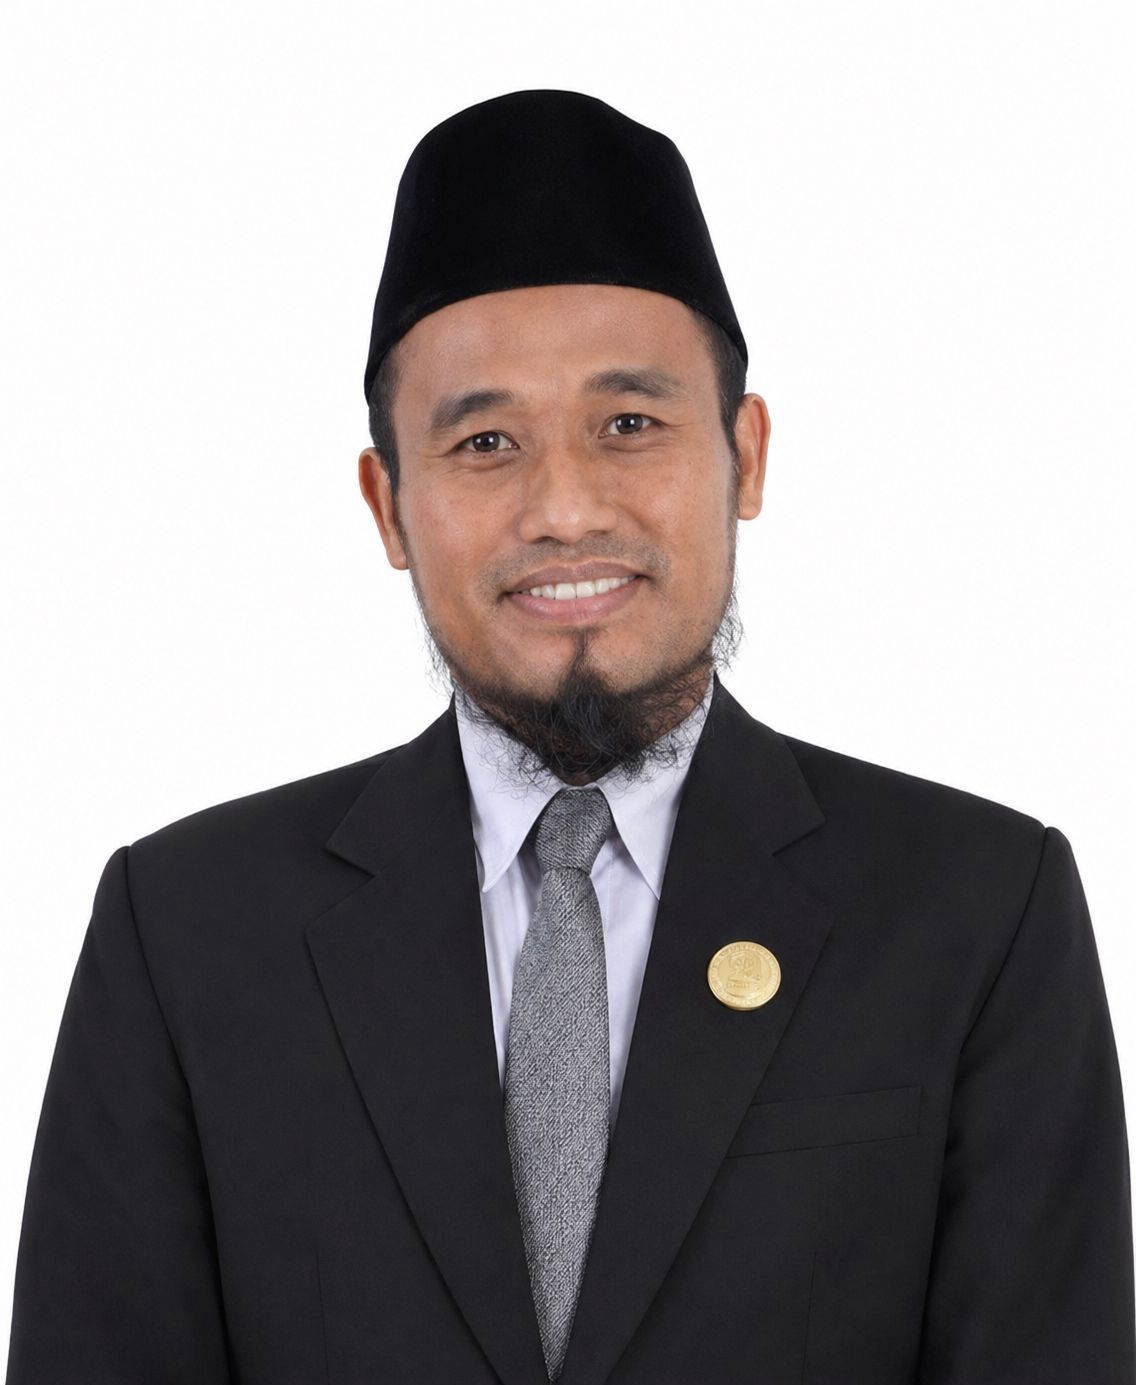
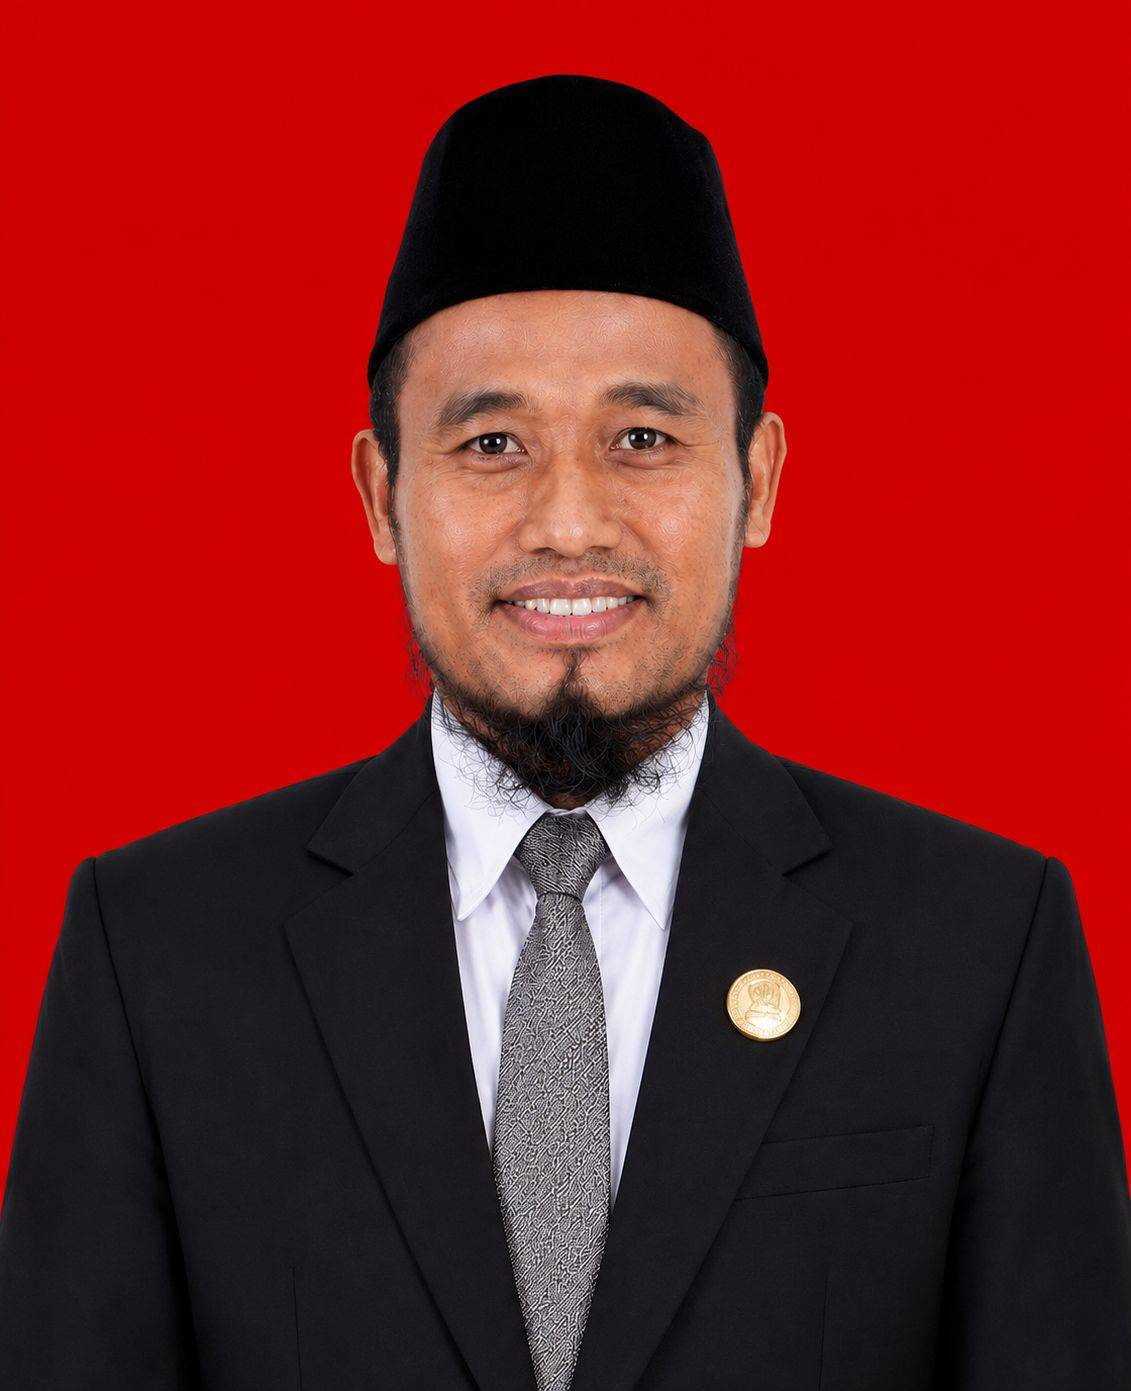
fix: update pengurus data and add TipTap dependencies

diff --git a/src/pages/KepengurusanPage.jsx b/src/pages/KepengurusanPage.jsx
@@ -162,7 +162,7 @@ export default function KepengurusanPage() {
                 </p>
 
                 <p className="mt-1 text-sm leading-6 text-gray-700">
-                  Pak Acep Irham
+                  Dr. Ir. Acep Irham Gufroni, M.Eng
                 </p>
 
               </div>
